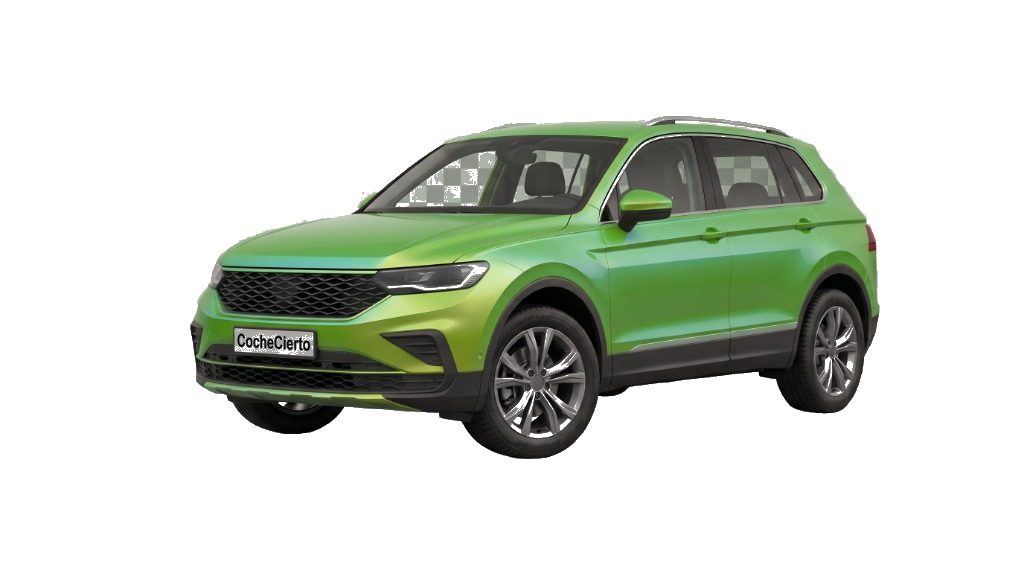
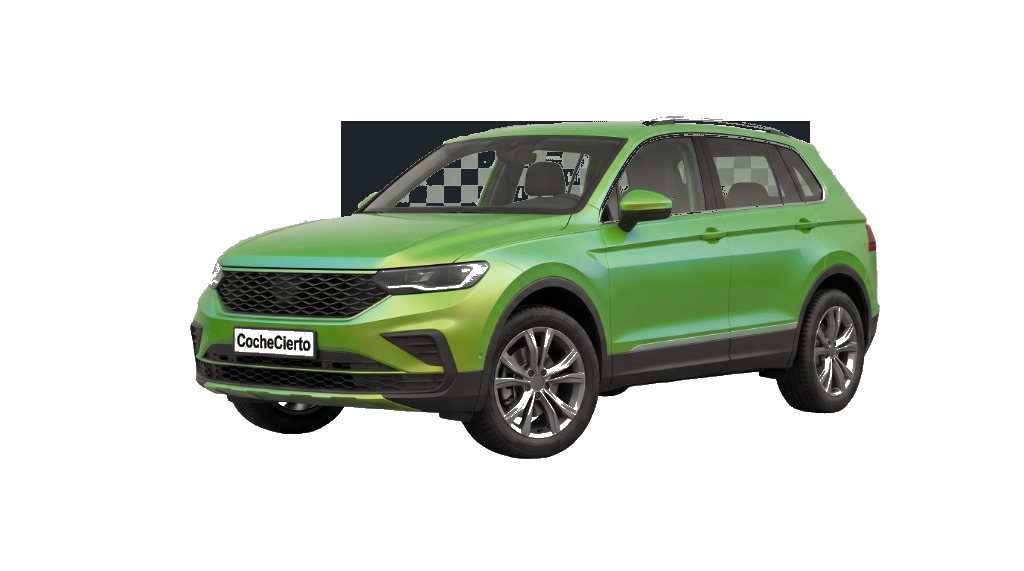
feat(hero): titular actualizado, efecto neon pulsante con respiracion, halo difuminado sin bordes y cristales ahumados limpios

diff --git a/index.html b/index.html
@@ -11,17 +11,17 @@
   <meta property="og:type" content="website"><meta property="og:site_name" content="CocheCierto"><meta property="og:title" content="CocheCierto | Valora qué coche necesitas"><meta property="og:description" content="Una valoración orientativa para empezar a comprar coche con criterio."><meta property="og:image" content="https://beige-seahorse-520475.hostingersite.com/social-preview.svg"><meta property="og:image:type" content="image/svg+xml"><meta property="og:image:width" content="1200"><meta property="og:image:height" content="630"><meta property="og:image:alt" content="CocheCierto, decide con datos y compra con seguridad">
   <meta name="twitter:card" content="summary_large_image"><meta name="twitter:title" content="CocheCierto | Valora qué coche necesitas"><meta name="twitter:description" content="Una valoración orientativa para empezar a comprar coche con criterio."><meta name="twitter:image" content="https://beige-seahorse-520475.hostingersite.com/social-preview.svg"><meta name="twitter:image:alt" content="CocheCierto, decide con datos y compra con seguridad">
   
-    <link rel="stylesheet" href="theme.css?v=20260829-7">
-  <link rel="stylesheet" href="styles.css?v=20260829-7">
-  <link rel="stylesheet" href="landing.css?v=20260829-7">
-  <link rel="stylesheet" href="benefits.css?v=20260829-7">
-  <link rel="stylesheet" href="content-sections.css?v=20260829-7">
-  <link rel="stylesheet" href="visual-pain-points.css?v=20260829-7">
-  <link rel="stylesheet" href="faq.css?v=20260829-7">
-  <link rel="stylesheet" href="valuator-modal.css?v=20260829-7">
-  <script src="theme.js?v=20260829-7"></script>
-  <script src="site-header.js?v=20260829-7" defer></script>
-  <script src="app.js?v=20260829-7" defer></script>
+    <link rel="stylesheet" href="theme.css?v=20260829-8">
+  <link rel="stylesheet" href="styles.css?v=20260829-8">
+  <link rel="stylesheet" href="landing.css?v=20260829-8">
+  <link rel="stylesheet" href="benefits.css?v=20260829-8">
+  <link rel="stylesheet" href="content-sections.css?v=20260829-8">
+  <link rel="stylesheet" href="visual-pain-points.css?v=20260829-8">
+  <link rel="stylesheet" href="faq.css?v=20260829-8">
+  <link rel="stylesheet" href="valuator-modal.css?v=20260829-8">
+  <script src="theme.js?v=20260829-8"></script>
+  <script src="site-header.js?v=20260829-8" defer></script>
+  <script src="app.js?v=20260829-8" defer></script>
 </head>
 <body class="landing-page">
 <main class="landing-shell">
@@ -48,8 +48,8 @@
     <div class="hero-upper-grid">
       <div class="hero-copy">
         <p class="hero-eyebrow">— VALORADOR DE COCHES</p>
-        <h1 class="hero-title">Tu próximo coche,<br><span class="highlight-orange">con certeza.</span></h1>
-        <p class="hero-lead">El coche correcto para tu vida y tu bolsillo. Descubre qué tipo de coche estudiar, cuánto tiene sentido gastar y qué debes comprobar antes de entregar una señal.</p>
+        <h1 class="hero-title">El coche correcto para<br><span class="highlight-orange">tu vida y tu bolsillo.</span></h1>
+        <p class="hero-lead">Descubre qué tipo de coche estudiar, cuánto tiene sentido gastar y qué debes comprobar antes de entregar una señal.</p>
       </div>
 
       <div class="hero-visual-wrapper" aria-label="Vehículo CocheCierto">

diff --git a/mvp-valorador/index.html b/mvp-valorador/index.html
@@ -11,17 +11,17 @@
   <meta property="og:type" content="website"><meta property="og:site_name" content="CocheCierto"><meta property="og:title" content="CocheCierto | Valora qué coche necesitas"><meta property="og:description" content="Una valoración orientativa para empezar a comprar coche con criterio."><meta property="og:image" content="https://beige-seahorse-520475.hostingersite.com/social-preview.svg"><meta property="og:image:type" content="image/svg+xml"><meta property="og:image:width" content="1200"><meta property="og:image:height" content="630"><meta property="og:image:alt" content="CocheCierto, decide con datos y compra con seguridad">
   <meta name="twitter:card" content="summary_large_image"><meta name="twitter:title" content="CocheCierto | Valora qué coche necesitas"><meta name="twitter:description" content="Una valoración orientativa para empezar a comprar coche con criterio."><meta name="twitter:image" content="https://beige-seahorse-520475.hostingersite.com/social-preview.svg"><meta name="twitter:image:alt" content="CocheCierto, decide con datos y compra con seguridad">
   
-    <link rel="stylesheet" href="theme.css?v=20260829-7">
-  <link rel="stylesheet" href="styles.css?v=20260829-7">
-  <link rel="stylesheet" href="landing.css?v=20260829-7">
-  <link rel="stylesheet" href="benefits.css?v=20260829-7">
-  <link rel="stylesheet" href="content-sections.css?v=20260829-7">
-  <link rel="stylesheet" href="visual-pain-points.css?v=20260829-7">
-  <link rel="stylesheet" href="faq.css?v=20260829-7">
-  <link rel="stylesheet" href="valuator-modal.css?v=20260829-7">
-  <script src="theme.js?v=20260829-7"></script>
-  <script src="site-header.js?v=20260829-7" defer></script>
-  <script src="app.js?v=20260829-7" defer></script>
+    <link rel="stylesheet" href="theme.css?v=20260829-8">
+  <link rel="stylesheet" href="styles.css?v=20260829-8">
+  <link rel="stylesheet" href="landing.css?v=20260829-8">
+  <link rel="stylesheet" href="benefits.css?v=20260829-8">
+  <link rel="stylesheet" href="content-sections.css?v=20260829-8">
+  <link rel="stylesheet" href="visual-pain-points.css?v=20260829-8">
+  <link rel="stylesheet" href="faq.css?v=20260829-8">
+  <link rel="stylesheet" href="valuator-modal.css?v=20260829-8">
+  <script src="theme.js?v=20260829-8"></script>
+  <script src="site-header.js?v=20260829-8" defer></script>
+  <script src="app.js?v=20260829-8" defer></script>
 </head>
 <body class="landing-page">
 <main class="landing-shell">
@@ -48,8 +48,8 @@
     <div class="hero-upper-grid">
       <div class="hero-copy">
         <p class="hero-eyebrow">— VALORADOR DE COCHES</p>
-        <h1 class="hero-title">Tu próximo coche,<br><span class="highlight-orange">con certeza.</span></h1>
-        <p class="hero-lead">El coche correcto para tu vida y tu bolsillo. Descubre qué tipo de coche estudiar, cuánto tiene sentido gastar y qué debes comprobar antes de entregar una señal.</p>
+        <h1 class="hero-title">El coche correcto para<br><span class="highlight-orange">tu vida y tu bolsillo.</span></h1>
+        <p class="hero-lead">Descubre qué tipo de coche estudiar, cuánto tiene sentido gastar y qué debes comprobar antes de entregar una señal.</p>
       </div>
 
       <div class="hero-visual-wrapper" aria-label="Vehículo CocheCierto">

diff --git a/landing.css b/landing.css
@@ -66,24 +66,26 @@
   min-height: 380px;
 }
 
-/* Círculo Trasero Sutil y Elegante */
+/* Círculo Trasero Sutil y Difuminado Orgánico (Sin bordes) */
 .hero-circle-backdrop {
   position: absolute;
-  width: clamp(320px, 34vw, 460px);
-  height: clamp(320px, 34vw, 460px);
+  width: clamp(340px, 36vw, 500px);
+  height: clamp(340px, 36vw, 500px);
   border-radius: 50%;
-  background: radial-gradient(circle at 40% 40%, rgba(166, 195, 208, 0.16) 0%, rgba(8, 45, 70, 0.35) 60%, rgba(2, 26, 45, 0) 100%);
-  border: 1px solid rgba(166, 195, 208, 0.14);
+  background: radial-gradient(circle at 45% 45%, rgba(166, 195, 208, 0.22) 0%, rgba(8, 45, 70, 0.45) 50%, rgba(2, 26, 45, 0) 80%);
+  border: none !important;
   opacity: 0.9;
+  filter: blur(34px);
   z-index: 1;
-  transform: translate(25px, -10px);
-  transition: background 0.3s ease, border-color 0.3s ease;
+  transform: translate(20px, -10px);
+  pointer-events: none;
+  transition: background 0.4s ease;
 }
 
 body.theme-light .hero-circle-backdrop,
 html.theme-light .hero-circle-backdrop {
-  background: radial-gradient(circle at 40% 40%, rgba(7, 34, 48, 0.10) 0%, rgba(38, 122, 99, 0.06) 60%, rgba(243, 247, 245, 0) 100%);
-  border: 1px solid rgba(7, 34, 48, 0.10);
+  background: radial-gradient(circle at 45% 45%, rgba(7, 34, 48, 0.14) 0%, rgba(38, 122, 99, 0.08) 55%, rgba(243, 247, 245, 0) 80%);
+  border: none !important;
   opacity: 0.85;
 }
 
@@ -96,15 +98,15 @@ html.theme-light .hero-circle-backdrop {
   align-items: center;
 }
 
-/* Animación Breathing en el Coche Flotante */
+/* Animación Breathing con Efecto Neón Pulsante */
 @keyframes carBreathing {
   0%, 100% {
     transform: translateY(0) scale(1);
-    filter: drop-shadow(0 18px 32px rgba(0, 0, 0, 0.38));
+    filter: drop-shadow(0 14px 26px rgba(0, 0, 0, 0.38)) drop-shadow(0 0 20px rgba(252, 76, 2, 0.25));
   }
   50% {
     transform: translateY(-8px) scale(1.025);
-    filter: drop-shadow(0 26px 44px rgba(252, 76, 2, 0.38));
+    filter: drop-shadow(0 22px 36px rgba(0, 0, 0, 0.45)) drop-shadow(0 0 44px rgba(252, 76, 2, 0.70)); /* Efecto Neón Cálido */
   }
 }
 
@@ -115,8 +117,13 @@ body.theme-light .hero-car-image {
 @keyframes carBreathingLight {
   0%, 100% {
     transform: translateY(0) scale(1);
-    filter: drop-shadow(0 16px 28px rgba(7, 34, 48, 0.16));
+    filter: drop-shadow(0 12px 22px rgba(7, 34, 48, 0.15)) drop-shadow(0 0 18px rgba(38, 122, 99, 0.22));
   }
+  50% {
+    transform: translateY(-8px) scale(1.025);
+    filter: drop-shadow(0 20px 32px rgba(7, 34, 48, 0.20)) drop-shadow(0 0 40px rgba(38, 122, 99, 0.60)); /* Efecto Neón Esmeralda */
+  }
+}
   50% {
     transform: translateY(-8px) scale(1.025);
     filter: drop-shadow(0 24px 38px rgba(38, 122, 99, 0.28));

diff --git a/mvp-valorador/landing.css b/mvp-valorador/landing.css
@@ -66,24 +66,26 @@
   min-height: 380px;
 }
 
-/* Círculo Trasero Sutil y Elegante */
+/* Círculo Trasero Sutil y Difuminado Orgánico (Sin bordes) */
 .hero-circle-backdrop {
   position: absolute;
-  width: clamp(320px, 34vw, 460px);
-  height: clamp(320px, 34vw, 460px);
+  width: clamp(340px, 36vw, 500px);
+  height: clamp(340px, 36vw, 500px);
   border-radius: 50%;
-  background: radial-gradient(circle at 40% 40%, rgba(166, 195, 208, 0.16) 0%, rgba(8, 45, 70, 0.35) 60%, rgba(2, 26, 45, 0) 100%);
-  border: 1px solid rgba(166, 195, 208, 0.14);
+  background: radial-gradient(circle at 45% 45%, rgba(166, 195, 208, 0.22) 0%, rgba(8, 45, 70, 0.45) 50%, rgba(2, 26, 45, 0) 80%);
+  border: none !important;
   opacity: 0.9;
+  filter: blur(34px);
   z-index: 1;
-  transform: translate(25px, -10px);
-  transition: background 0.3s ease, border-color 0.3s ease;
+  transform: translate(20px, -10px);
+  pointer-events: none;
+  transition: background 0.4s ease;
 }
 
 body.theme-light .hero-circle-backdrop,
 html.theme-light .hero-circle-backdrop {
-  background: radial-gradient(circle at 40% 40%, rgba(7, 34, 48, 0.10) 0%, rgba(38, 122, 99, 0.06) 60%, rgba(243, 247, 245, 0) 100%);
-  border: 1px solid rgba(7, 34, 48, 0.10);
+  background: radial-gradient(circle at 45% 45%, rgba(7, 34, 48, 0.14) 0%, rgba(38, 122, 99, 0.08) 55%, rgba(243, 247, 245, 0) 80%);
+  border: none !important;
   opacity: 0.85;
 }
 
@@ -96,15 +98,15 @@ html.theme-light .hero-circle-backdrop {
   align-items: center;
 }
 
-/* Animación Breathing en el Coche Flotante */
+/* Animación Breathing con Efecto Neón Pulsante */
 @keyframes carBreathing {
   0%, 100% {
     transform: translateY(0) scale(1);
-    filter: drop-shadow(0 18px 32px rgba(0, 0, 0, 0.38));
+    filter: drop-shadow(0 14px 26px rgba(0, 0, 0, 0.38)) drop-shadow(0 0 20px rgba(252, 76, 2, 0.25));
   }
   50% {
     transform: translateY(-8px) scale(1.025);
-    filter: drop-shadow(0 26px 44px rgba(252, 76, 2, 0.38));
+    filter: drop-shadow(0 22px 36px rgba(0, 0, 0, 0.45)) drop-shadow(0 0 44px rgba(252, 76, 2, 0.70)); /* Efecto Neón Cálido */
   }
 }
 
@@ -115,8 +117,13 @@ body.theme-light .hero-car-image {
 @keyframes carBreathingLight {
   0%, 100% {
     transform: translateY(0) scale(1);
-    filter: drop-shadow(0 16px 28px rgba(7, 34, 48, 0.16));
+    filter: drop-shadow(0 12px 22px rgba(7, 34, 48, 0.15)) drop-shadow(0 0 18px rgba(38, 122, 99, 0.22));
   }
+  50% {
+    transform: translateY(-8px) scale(1.025);
+    filter: drop-shadow(0 20px 32px rgba(7, 34, 48, 0.20)) drop-shadow(0 0 40px rgba(38, 122, 99, 0.60)); /* Efecto Neón Esmeralda */
+  }
+}
   50% {
     transform: translateY(-8px) scale(1.025);
     filter: drop-shadow(0 24px 38px rgba(38, 122, 99, 0.28));
